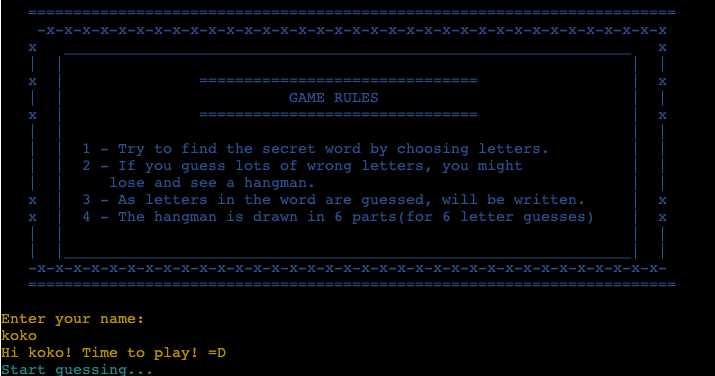
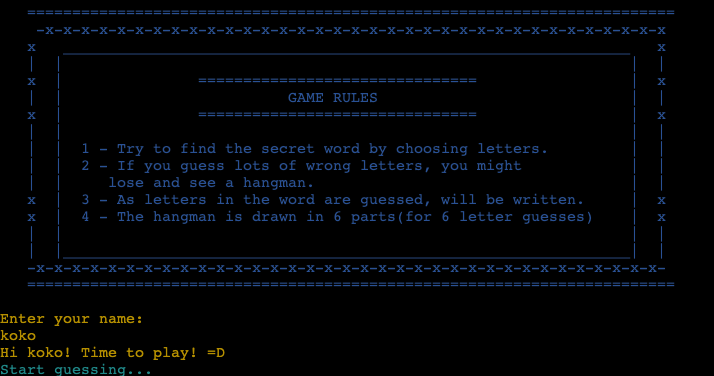
add username input to the features in readme file and crop img

diff --git a/README.md b/README.md
@@ -24,6 +24,7 @@ Once the game is over the user is presented with the option to initiate another 
   + [Existing Features](#existing-features "Existing Features")
     + [Landing Page](#landing-page "Landing Page")
     + [Game Rules](#game-rules "Game Rules")
+    + [Enter Username](#enter-username "Enter Username")
     + [Possible Outcomes](#possible-outcomes "Possible Outcomes")
     + [Next Round](#next-round "Play Again or Quit App")
   + [Features Left to Implement](#features-left-to-implement "Features Left to Implement")
@@ -75,13 +76,18 @@ Make the game more challenging by introducing multiple difficulty levels for the
 
 #### Landing Page:
 ![Landing Page](assets/images-readme/landing-page.png)
-The landing page displays the title of the game, the name of the developer, and a section with game rules where the player has the choice to read it or start the game. Next, the player has the choice to read the rules of the game or dive straight to play the game. Below this section, there is a prompt for the user to enter their name to begin the game.
+
+The landing page displays the game's title along with the developer's name. To add an element of visual appeal, the text is rendered in red color, and the sentences are animated using the typewriter function. This approach is aimed at enriching the user's experience.
 
 ### Game Rules
 Players have the option to review the game rules before beginning the Hangman game. They can do so by entering either `Y` or `N`. If any other letter or input is provided, they will be prompted with an invalid choice message until the player enters the correct input.
 
 * ![Game Rules Invalid Input](assets/images-readme/game-rules-invalid-input.png)
 * ![Game Rules](assets/images-readme/game-rules.png)
+
+### Enter Username
+Beneath the rules section, a prompt awaits the user, inviting them to input their name to initiate the game. An image illustrating this can be found above, in the "Game Rules" picture.
+
 
 #### Possible Outcomes:
 The player may encounter three potential scenarios when making a letter choice: 
@@ -201,4 +207,3 @@ A special acknowledgment to my Mentor [Martina Terlevic](https://github.com/Seph
  Patricia Höge 2023.
 
  [Back to top](<#table-of-contents>)
-
